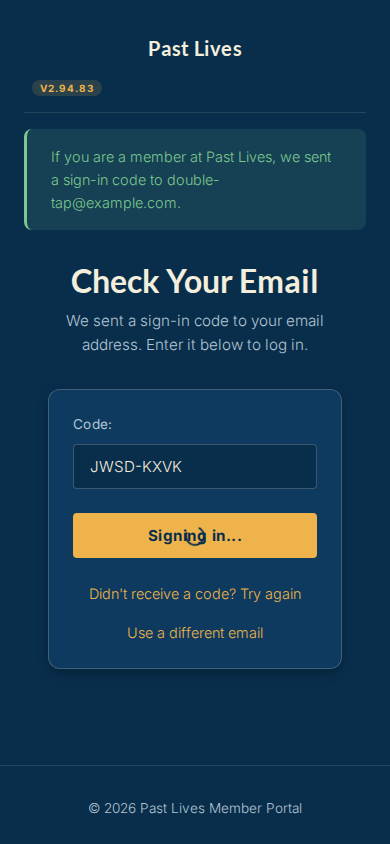
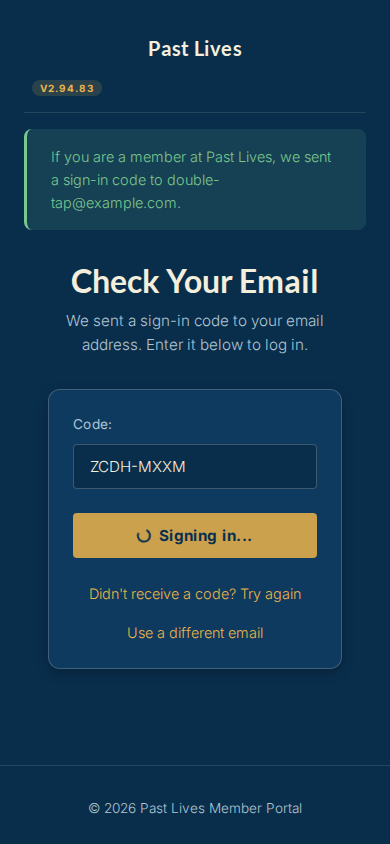
[accounts] Busy portal buttons show the spinner beside the label
Claude-Session: https://claude.ai/code/session_0115Jajci9MrrPHjGWAkPLRW

Changed region(s): [[0.1846, 0.5237, 0.8308, 0.6777], [0.4308, 0.5237, 0.4923, 0.5545]]

diff --git a/static/css/style.css b/static/css/style.css
@@ -388,22 +388,22 @@ p:last-child {
     width: 100%;
 }
 
-/* Loading state */
+/* Loading state (components/busy_submit.html): the spinner sits beside the busy label, as
+   .hub-btn and .pl-btn draw it in components.css. */
 .btn[aria-busy="true"] {
-    position: relative;
-    color: transparent;
+    cursor: progress;
+    opacity: 0.85;
     pointer-events: none;
 }
 
-.btn[aria-busy="true"]::after {
+.btn[aria-busy="true"]::before {
     content: '';
-    position: absolute;
-    top: 50%;
-    left: 50%;
-    width: 1.25rem;
-    height: 1.25rem;
-    margin: -0.625rem 0 0 -0.625rem;
-    border: 2px solid var(--color-navy);
+    display: inline-block;
+    width: 0.9em;
+    height: 0.9em;
+    margin-right: 0.5em;
+    vertical-align: -0.1em;
+    border: 2px solid currentColor;
     border-right-color: transparent;
     border-radius: 50%;
     animation: btn-spin 0.6s linear infinite;
